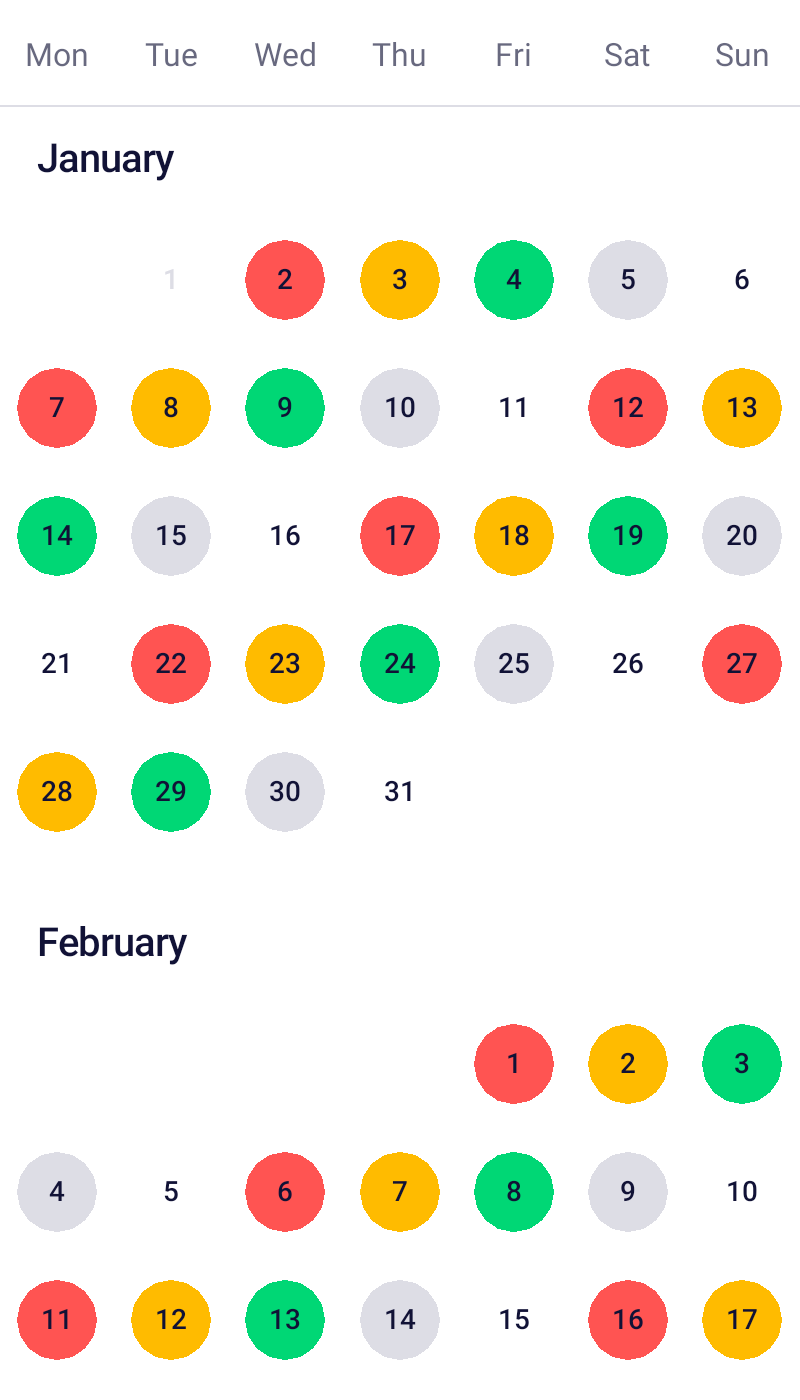
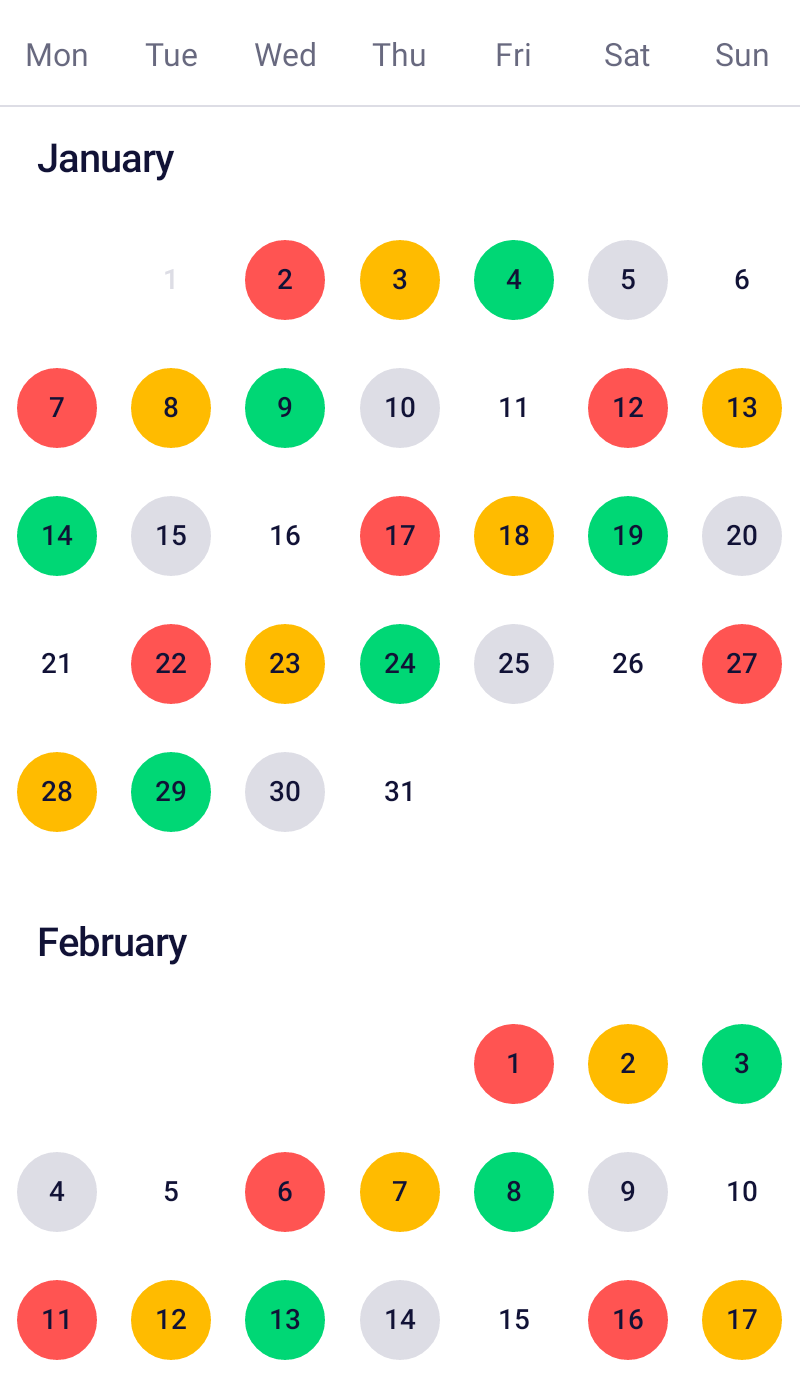
- Add antialias to colored circles - Calculate spacing based on bpkSpacing standard value - Clarify field name for range background

diff --git a/Backpack/src/main/java/net/skyscanner/backpack/calendar/view/MonthView.kt b/Backpack/src/main/java/net/skyscanner/backpack/calendar/view/MonthView.kt
@@ -75,7 +75,7 @@ internal class MonthView @JvmOverloads constructor(
   private val selectedDayCircleRadius: Int = ResourcesUtil.dpToPx(20, context)
   private val monthHeaderSize: Int = ResourcesUtil.dpToPx(52, context)
 
-  private var rowHeight: Int = ResourcesUtil.dpToPx(64, context)
+  private var rowHeight: Int = context.resources.getDimensionPixelSize(R.dimen.bpkSpacingXl) * 2
   private var viewWidth = 0
 
   private var isRtl: Boolean = false
@@ -83,7 +83,7 @@ internal class MonthView @JvmOverloads constructor(
   private val selectedTextColor: Int
   private val selectedDayCircleFillColor: Int
   private val selectedDaySameDayCircleFillColor: Int
-  private val rangeColorNonColored: Int
+  private val rangeBackgoroundColor: Int
 
   init {
     val a = this.context.obtainStyledAttributes(attrs, R.styleable.BpkCalendar, R.attr.bpkCalendarStyle, 0)
@@ -94,7 +94,7 @@ internal class MonthView @JvmOverloads constructor(
     selectedDaySameDayCircleFillColor = a.getColor(R.styleable.BpkCalendar_calendarDateSelectedSameDayBackgroundColor,
       ContextCompat.getColor(context, R.color.bpkBlue900))
 
-    rangeColorNonColored = a.getColor(R.styleable.BpkCalendar_calendarDateSelectedRangeBackgroundColor,
+    rangeBackgoroundColor = a.getColor(R.styleable.BpkCalendar_calendarDateSelectedRangeBackgroundColor,
       ContextCompat.getColor(context, R.color.bpkBlue400))
 
     selectedTextColor = a.getColor(R.styleable.BpkCalendar_calendarDateSelectedTextColor,
@@ -139,7 +139,7 @@ internal class MonthView @JvmOverloads constructor(
   private val rangeBackPaint = Paint().apply {
     isFakeBoldText = true
     isAntiAlias = true
-    color = rangeColorNonColored
+    color = rangeBackgoroundColor
     style = Style.FILL
   }
 
@@ -367,7 +367,7 @@ internal class MonthView @JvmOverloads constructor(
     x: Int,
     y: Int
   ) {
-    rangeBackPaint.color = rangeColorNonColored
+    rangeBackPaint.color = rangeBackgoroundColor
     if (day.dayOfMonth == 1 && day != range.start) {
       drawCircle(canvas, x - paddingX, y - miniDayNumberTextSize / 3, selectedDayCircleRadius, rangeBackPaint)
     }
@@ -399,7 +399,7 @@ internal class MonthView @JvmOverloads constructor(
   private fun drawRect(canvas: Canvas, startX: Int, startY: Int, stopX: Int, stopY: Int) {
     val x1 = if (isRtl) viewWidth - stopX else startX
     val x2 = if (isRtl) viewWidth - startX else stopX
-    rangeBackPaint.color = rangeColorNonColored
+    rangeBackPaint.color = rangeBackgoroundColor
     canvas.drawRect(
       x1.toFloat(), startY.toFloat(), x2.toFloat(), stopY.toFloat(), rangeBackPaint
     )
@@ -490,6 +490,8 @@ internal fun CalendarDrawingParams.toDrawingPaintMap(isSelectedColor: Boolean): 
       val bucketColor = if (isSelectedColor) bucket.selectedColor else bucket.color
       if (bucketColor != null) {
         val paint = Paint().apply {
+          isAntiAlias = true
+          isFakeBoldText = true
           style = Style.FILL
           color = bucketColor
         }
